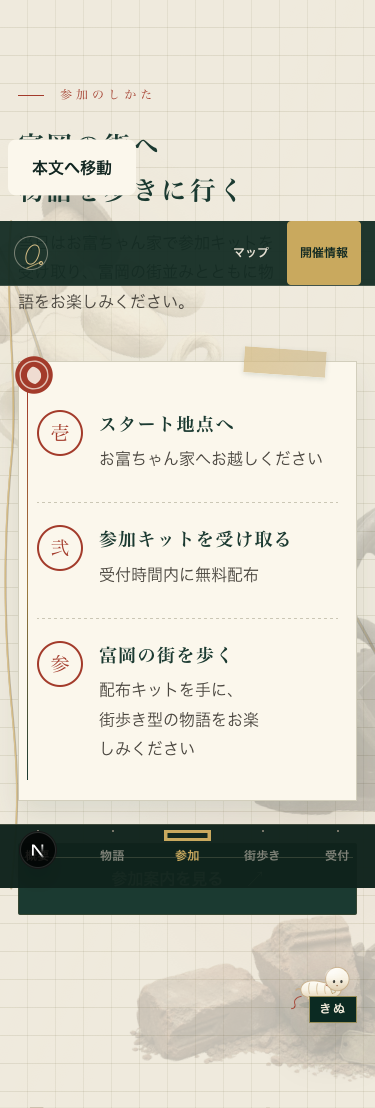
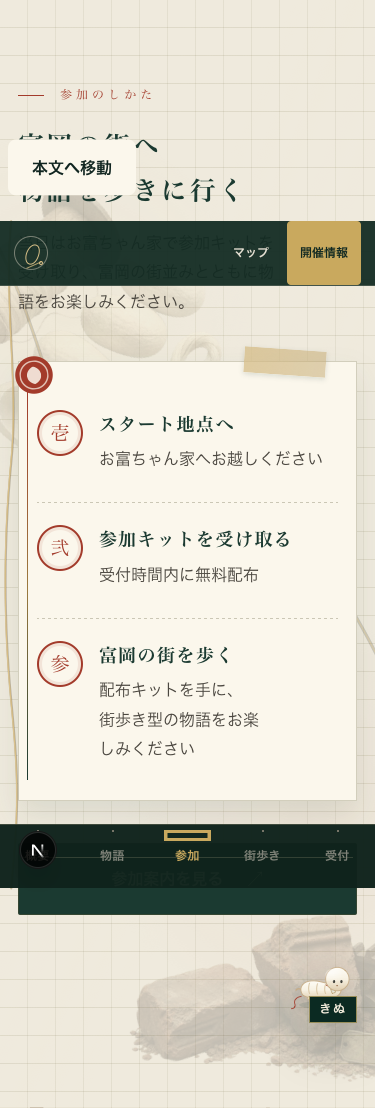
docs: record production verification evidence for the silk-thread release

Changed region(s): [[0.704, 0.5523, 1.0, 0.7365], [0.9387, 0.4603, 1.0, 0.5217]]

diff --git a/src/components/immersive/ThreadProgress.tsx b/src/components/immersive/ThreadProgress.tsx
@@ -1,0 +1,121 @@
+"use client";
+
+import { useEffect } from "react";
+
+/**
+ * 絹糸が項目を順に結んでいく。
+ *
+ * 参加方法（壱・弐・参）と、駅から入口までの道順で共通に使う。
+ * 読み進めた項目に `data-reached="true"` が付き、
+ * いま読んでいる項目に `data-current="true"` が付く。
+ * 見た目は各セクションの CSS が決める（ここでは状態だけを配る）。
+ *
+ * 守っていること:
+ *  - 一度到達した項目は戻さない。上下に揺らすと「読んだ／まだ」が分からなくなる
+ *  - rAF もタイマーも持たない。IntersectionObserver だけ
+ *  - reduce では観測せず、最初からすべて到達済みにする（情報を隠さない）
+ *  - 文章そのものは常に読める。アニメーションで本文を隠さない
+ */
+interface ThreadProgressProps {
+  /** 対象リストの CSS セレクタ（この配下の直下要素を順番に見る） */
+  selector: string;
+}
+
+export function ThreadProgress({ selector }: ThreadProgressProps) {
+  useEffect(() => {
+    const list = document.querySelector(selector);
+    if (!list) return;
+
+    const items = Array.from(list.children).filter(
+      (node): node is HTMLElement => node instanceof HTMLElement,
+    );
+    if (items.length === 0) return;
+
+    const motionQuery = window.matchMedia("(prefers-reduced-motion: reduce)");
+    let observer: IntersectionObserver | null = null;
+    let detachScroll: (() => void) | null = null;
+
+    const markAll = () => {
+      for (const item of items) {
+        item.dataset.reached = "true";
+        delete item.dataset.current;
+      }
+    };
+
+    const sync = () => {
+      observer?.disconnect();
+      observer = null;
+      detachScroll?.();
+      detachScroll = null;
+
+      if (motionQuery.matches) {
+        markAll();
+        return;
+      }
+
+      for (const item of items) {
+        if (item.dataset.reached !== "true") item.dataset.reached = "false";
+      }
+
+      // いま画面の中央にいちばん近い項目だけを「読んでいる」とみなす。
+      // IntersectionObserver は交差の瞬間しか呼ばれないため、
+      // スクロール中の追従にはスクロール側の合図が要る。
+      const updateCurrent = () => {
+        const middle = window.innerHeight / 2;
+        let closest: HTMLElement | null = null;
+        let best = Infinity;
+        for (const item of items) {
+          const rect = item.getBoundingClientRect();
+          if (rect.bottom < 0 || rect.top > window.innerHeight) continue;
+          const distance = Math.abs(rect.top + rect.height / 2 - middle);
+          if (distance < best) {
+            best = distance;
+            closest = item;
+          }
+        }
+        for (const item of items) {
+          if (item === closest) item.dataset.current = "true";
+          else delete item.dataset.current;
+        }
+      };
+
+      // スクロール 1 回につき rAF 1 回だけ。止まれば何も回らない
+      let pending = false;
+      const onScroll = () => {
+        if (pending) return;
+        pending = true;
+        requestAnimationFrame(() => {
+          pending = false;
+          updateCurrent();
+        });
+      };
+
+      observer = new IntersectionObserver(
+        (entries) => {
+          for (const entry of entries) {
+            if (!entry.isIntersecting) continue;
+            // 到達は一方通行。戻すと「読んだ／まだ」が読み取れなくなる
+            (entry.target as HTMLElement).dataset.reached = "true";
+          }
+          updateCurrent();
+        },
+        { rootMargin: "-18% 0px -28% 0px", threshold: [0, 0.4, 1] },
+      );
+      for (const item of items) observer.observe(item);
+
+      window.addEventListener("scroll", onScroll, { passive: true });
+      detachScroll = () => window.removeEventListener("scroll", onScroll);
+      updateCurrent();
+    };
+
+    sync();
+    motionQuery.addEventListener("change", sync);
+    return () => {
+      observer?.disconnect();
+      detachScroll?.();
+      motionQuery.removeEventListener("change", sync);
+    };
+  }, [selector]);
+
+  return null;
+}

diff --git a/src/components/arrival/OtomiArrival.module.css b/src/components/arrival/OtomiArrival.module.css
@@ -19,8 +19,9 @@
 .heading,.place,.ticket,.guide,.route,.actions { min-width: 0; opacity: 0; transform: translateY(18px); transition: opacity .65s cubic-bezier(.22,1,.36,1), transform .65s cubic-bezier(.22,1,.36,1); }
 .arrival[data-entered="true"] .heading,.arrival[data-entered="true"] .place,.arrival[data-entered="true"] .ticket,.arrival[data-entered="true"] .guide,.arrival[data-entered="true"] .route,.arrival[data-entered="true"] .actions { opacity: 1; transform: none; }
 .place { transition-delay: 80ms; }.ticket { transition-delay: 150ms; }.guide { transition-delay: 220ms; }.route { transition-delay: 290ms; }.actions { transition-delay: 360ms; }
-.kicker { color: #705f47; font-size: 0.75rem; font-weight: 800; letter-spacing: .16em; }
-.heading h2 { max-width: 10ch; margin-top: 14px; font-size: clamp(2.5rem, 12vw, 4rem); font-weight: 500; letter-spacing: -.055em; line-height: 1.08; }
+.kicker { color: var(--kit-seal); font-family: var(--font-serif); font-size: 0.75rem; font-weight: 400; letter-spacing: .34em; }
+/* 見出しの声は他セクションと同じ明朝・字間広め。ここだけ詰めたゴシックにしない */
+.heading h2 { max-width: 14ch; margin-top: 16px; font-family: var(--font-serif); font-size: clamp(1.7rem, 7vw, 2.5rem); font-weight: 500; letter-spacing: .12em; line-height: 1.6; }
 .heading h2 span,.heading h2 strong { display: block; white-space: nowrap; }
 .heading h2 strong { position: relative; width: max-content; color: var(--brick); font-weight: 650; }
 .heading h2 strong::after { position: absolute; right: -.24em; bottom: .04em; left: 0; height: 5px; background: var(--brick); content: ""; opacity: .18; }
@@ -89,4 +90,56 @@
   font-size: 26px;
   opacity: 0.92;
   pointer-events: none;
+}
+
+
+/* --- 駅から入口までの絹糸 --------------------------------------------------
+ * 経路線は絹糸そのもの。到達した区間だけが引かれ、地点が順に有効化される。
+ * 線は左端（18px）を縦に通り、文字とは交差しない（取り消し線に見せない）。
+ * 案内文字は常に読める。到達前でも文字は薄くしない。
+ * ------------------------------------------------------------------------ */
+
+.route li:not(:last-child)::after {
+  transform-origin: top;
+  scale: 1 0;
+  transition: scale 520ms cubic-bezier(0.22, 1, 0.36, 1);
+}
+
+.route li[data-reached="true"]:not(:last-child)::after {
+  scale: 1 1;
+}
+
+/* 地点の番号。到達前は輪郭だけ、到達後に朱が入る */
+.route li > span {
+  display: grid;
+  width: 26px;
+  height: 26px;
+  place-items: center;
+  border: 1px solid rgba(163, 59, 43, 0.4);
+  border-radius: 50%;
+  color: rgba(163, 59, 43, 0.5);
+  transition: color 380ms ease, border-color 380ms ease, background-color 380ms ease;
+}
+
+.route li[data-reached="true"] > span {
+  border-color: var(--brick);
+  color: var(--brick);
+}
+
+.route li[data-current="true"] > span {
+  background: var(--brick);
+  color: #f8f0df;
+}
+
+@media (prefers-reduced-motion: reduce) {
+  .route li:not(:last-child)::after {
+    scale: 1 1;
+    transition: none;
+  }
+
+  .route li > span {
+    border-color: var(--brick);
+    color: var(--brick);
+    transition: none;
+  }
 }

diff --git a/src/app/page.module.css b/src/app/page.module.css
@@ -836,3 +836,66 @@
   margin-right: -8px;
 }
 
+
+/* --- 絹糸が壱→弐→参を順に結ぶ ---------------------------------------------
+ * 到達した項目の結び目が朱で満たされ、読んでいる項目だけがわずかに強まる。
+ * 読み終えた項目は静かに背景へ下がる（消さない。情報は常に読める）。
+ * 番号の位置と綴じの罫は動かさない（指摘事項の保護対象）。
+ * ------------------------------------------------------------------------ */
+
+.steps li[data-reached="false"] .stepNumber {
+  border-color: rgba(163, 59, 43, 0.34);
+}
+
+.steps li[data-reached="false"] .stepNumber span {
+  color: rgba(163, 59, 43, 0.44);
+}
+
+.steps li[data-reached="true"] .stepNumber {
+  border-color: var(--kit-seal);
+  box-shadow: inset 0 0 0 3px rgba(163, 59, 43, 0.1);
+}
+
+.steps li[data-current="true"] .stepNumber {
+  background: var(--kit-seal);
+}
+
+.steps li[data-current="true"] .stepNumber span {
+  color: var(--kit-paper-raised);
+}
+
+.steps li[data-current="true"] h3 {
+  color: var(--kit-seal);
+}
+
+/* 読み終えた項目は背景へ一段下がる。読めなくはしない */
+.steps li[data-reached="true"]:not([data-current="true"]) h3,
+.steps li[data-reached="true"]:not([data-current="true"]) p {
+  opacity: 0.74;
+}
+
+.steps li .stepNumber,
+.steps li .stepNumber span,
+.steps li h3,
+.steps li p {
+  transition:
+    color 420ms ease,
+    opacity 420ms ease,
+    border-color 420ms ease,
+    background-color 420ms ease,
+    box-shadow 420ms ease;
+}
+
+@media (prefers-reduced-motion: reduce) {
+  .steps li .stepNumber,
+  .steps li .stepNumber span,
+  .steps li h3,
+  .steps li p {
+    transition: none;
+  }
+
+  .steps li[data-reached="true"]:not([data-current="true"]) h3,
+  .steps li[data-reached="true"]:not([data-current="true"]) p {
+    opacity: 1;
+  }
+}

diff --git a/src/app/page.tsx b/src/app/page.tsx
@@ -7,6 +7,7 @@ import { ArchiveObject } from "@/components/immersive/ArchiveObjects";
 import { ArtifactField } from "@/components/immersive/ArtifactField";
 import { FieldMapPlate } from "@/components/immersive/FieldMapPlate";
 import { SilkCityScene } from "@/components/immersive/SilkCityScene";
+import { ThreadProgress } from "@/components/immersive/ThreadProgress";
 import { TypographyReveal } from "@/components/immersive/TypographyReveal";
 import { HeroExperience } from "@/components/immersive/HeroExperience";
 import { SilkTrail } from "@/components/immersive/SilkTrail";
@@ -132,7 +133,9 @@ export default function Home() {
           <span className={styles.stepObjects} aria-hidden="true">
             <ArchiveObject name="wax-seal" tilt={-8} />
           </span>
-          <ol className={styles.steps}>
+          {/* 絹糸が壱→弐→参を順に結ぶ。番号位置と縦線には触れない */}
+          <ThreadProgress selector={`.${styles.steps}`} />
+          <ol className={styles.steps} data-thread-track>
             {participationSteps.map((step) => (
               <li key={step.number}>
                 <div className={styles.stepNumber}><span>{step.number}</span><small>{step.meta}</small></div>

diff --git a/src/components/arrival/OtomiArrival.tsx b/src/components/arrival/OtomiArrival.tsx
@@ -5,6 +5,7 @@ import Link from "next/link";
 import { useEffect, useRef, useState, type CSSProperties } from "react";
 import { SilkwormMascot, type GuideExpression } from "@/components/guide/SilkwormMascot";
 import { ArchiveObject } from "@/components/immersive/ArchiveObjects";
+import { ThreadProgress } from "@/components/immersive/ThreadProgress";
 import { siteConfig } from "@/data/site";
 import { withBasePath } from "@/lib/base-path";
 import styles from "./OtomiArrival.module.css";
@@ -146,6 +147,8 @@ export function OtomiArrival() {
       </aside>
 
       <nav className={styles.route} aria-label="上州富岡駅から物語の入口まで">
+        {/* 絹糸が経路線に変わり、駅から入口へ順に地点が有効化される */}
+        <ThreadProgress selector={`.${styles.route} ol`} />
         <p>駅から入口まで</p>
         <ol>{routeSteps.map((label, index) => (
           <li key={label} style={{ "--route-index": index } as CSSProperties}><span aria-hidden="true">{String(index + 1).padStart(2, "0")}</span><strong>{label}</strong></li>
